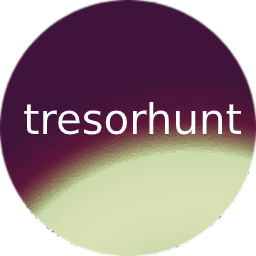
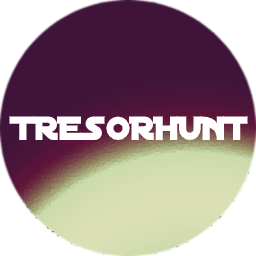
upd

Changed region(s): [[0.0312, 0.4062, 0.9688, 0.5625]]

diff --git a/style/map.css b/style/map.css
@@ -11,7 +11,7 @@ html      {margin:  0;
 			background: -ms-linear-gradient(top, rgba(71,255,188,1) 0%, rgba(0,84,133,1) 100%);
 			background: linear-gradient(to bottom, rgba(71,255,188,1) 0%, rgba(0,84,133,1) 100%);
 			filter: progid:DXImageTransform.Microsoft.gradient( startColorstr='#47ffbc', endColorstr='#005485', GradientType=0 );*/
-			background-color: rgb(46, 47, 51);
+			background-image: linear-gradient(to bottom, black, #011C2F);
 			background-repeat:no-repeat;
 			background-attachment:fixed;
 		  }

diff --git a/style/understyles.css b/style/understyles.css
@@ -18,8 +18,8 @@ div.mainheader {
 
 	span.h_main	{ 
 				color: white;
-				font-size: 32px;
-				margin: 32px 0px 32px 88px;
+				font-size: 28px;
+				margin: 42px 0px 32px 88px;
 				}
 
 /*div.mainimage {
